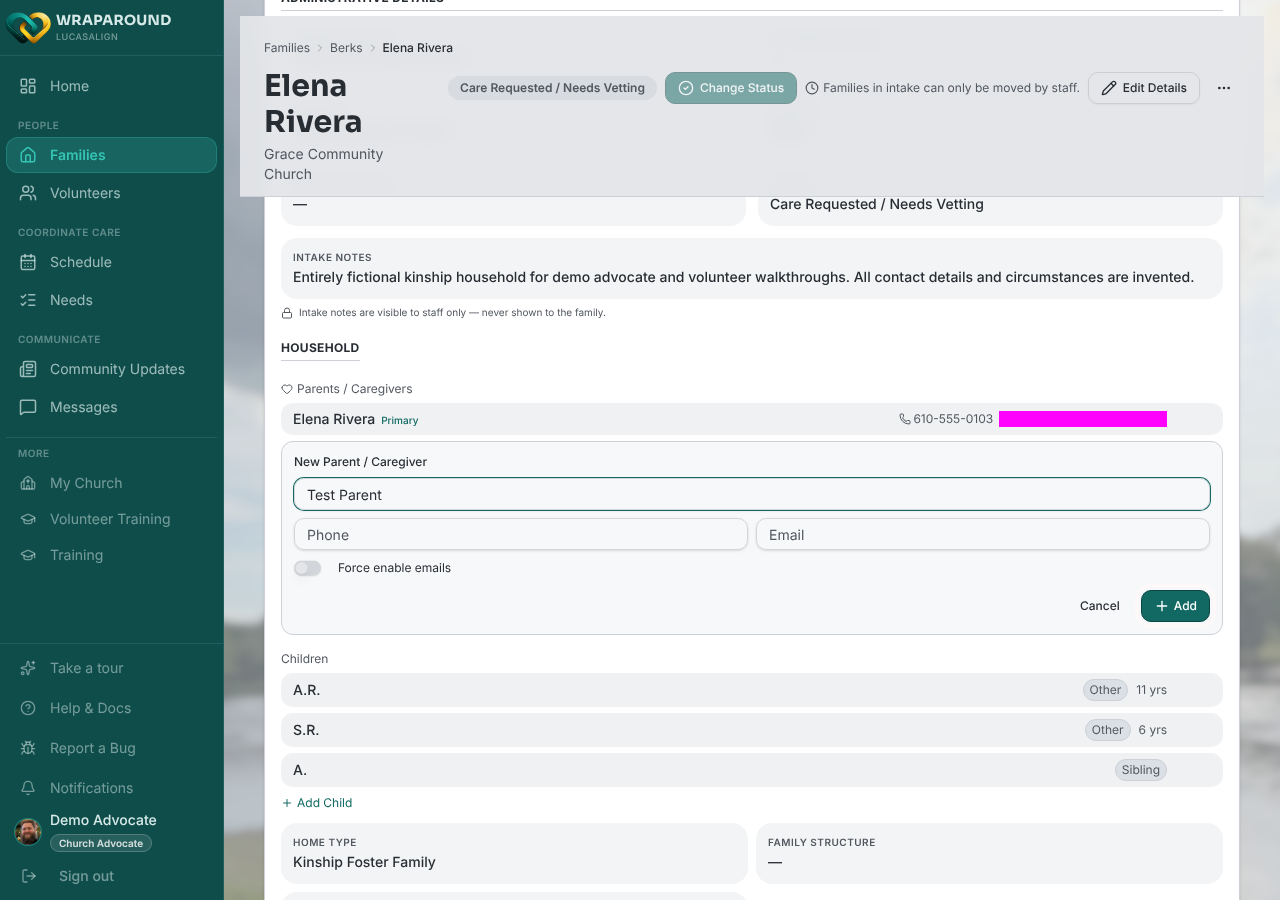
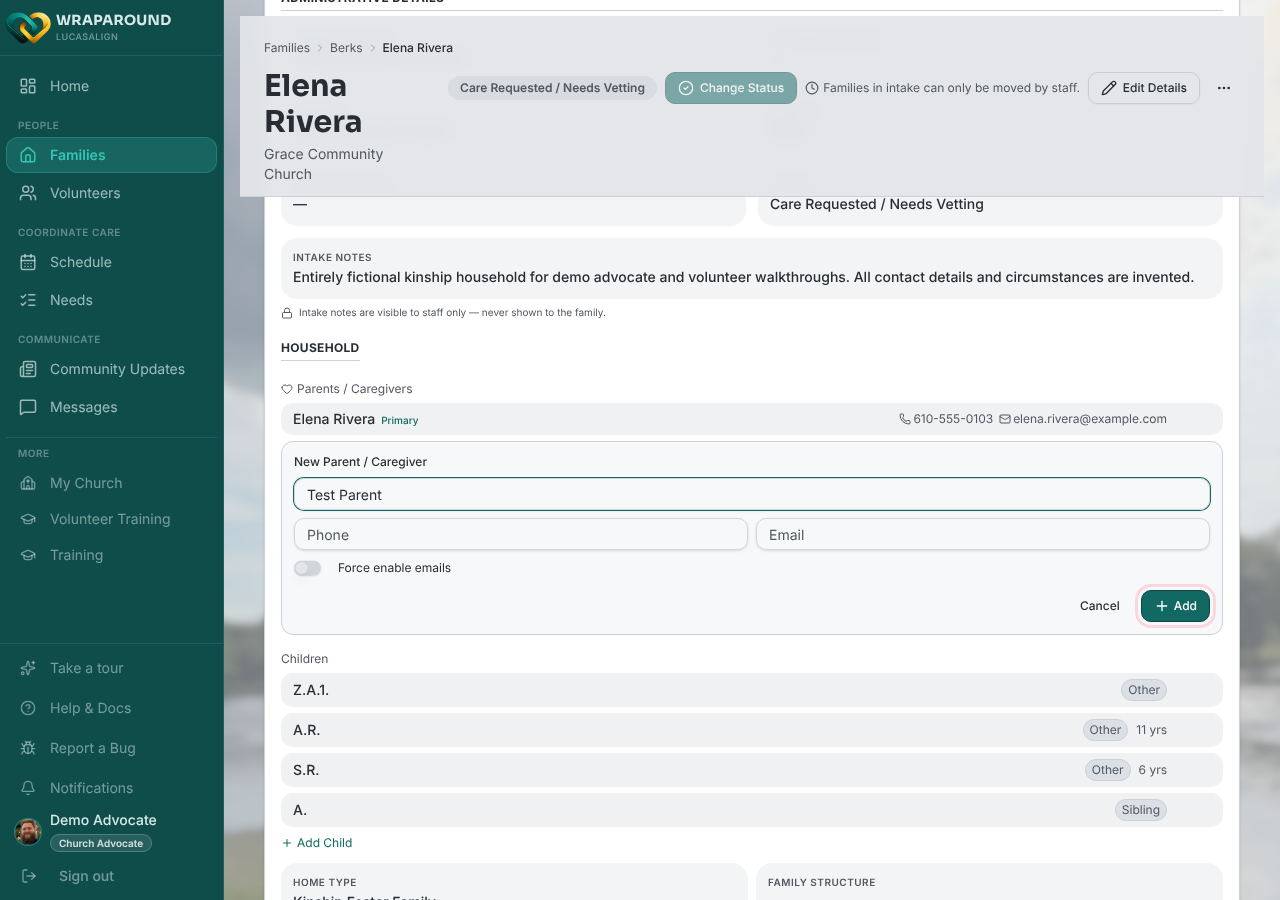
docs: address review feedback
Retake advocate screenshots (desktop + mobile pairs), blur the church email.

Claude-Session: https://claude.ai/code/session_01KTiPHDgoMMgUocnXh2i72w

diff --git a/docs/how-to/advocate/add-parent-or-child-info.md b/docs/how-to/advocate/add-parent-or-child-info.md
@@ -1,7 +1,7 @@
 ---
 status: needs-review
 primary: frontend
-last_reviewed: 2026-10-30
+last_reviewed: 2026-10-31
 ---
 
 <!-- @backend: confirm the scope rule for Advocates adding/removing parents and adding/editing
@@ -25,6 +25,9 @@ are out of date.
    family emails; leave it off unless the family asked for them.)
 
     ![The New Parent / Caregiver form open in the Household section, with Full name, Phone, Email and Force enable emails, and an Add button.](../../assets/screens/add-parent-or-child-info/household-add-parent-form.png)
+
+    ![The same New Parent / Caregiver form on a phone, with Full name filled in and the Add button at the bottom right.](../../assets/screens/add-parent-or-child-info/household-add-parent-form-mobile.png)
+
 3. To add a child, click **Add Child** below the list of children. In the **New Child** form,
    enter **Full name** (required), and optionally **Birthdate** and **Relationship**. Click
    **Add**.

diff --git a/docs/how-to/advocate/update-your-churchs-details.md b/docs/how-to/advocate/update-your-churchs-details.md
@@ -1,7 +1,7 @@
 ---
 status: draft
 primary: frontend
-last_reviewed: 2026-10-27
+last_reviewed: 2026-10-31
 ---
 
 <!-- @backend: confirm that an Advocate can edit only the church they're assigned to
@@ -32,6 +32,8 @@ shows **No church assigned** and nothing is editable.
 4. Click **Save Changes** (or **Save** at the top of the page).
 
     ![My Church page in edit mode, showing the read-only name and status, the editable Website, Contacts and Address, and the Save button at the top.](../../assets/screens/update-your-churchs-details/my-church-edit.png)
+
+    ![The same My Church edit page on a phone, with the Save button at the top right.](../../assets/screens/update-your-churchs-details/my-church-edit-mobile.png)
 
 ## What you'll see
 
